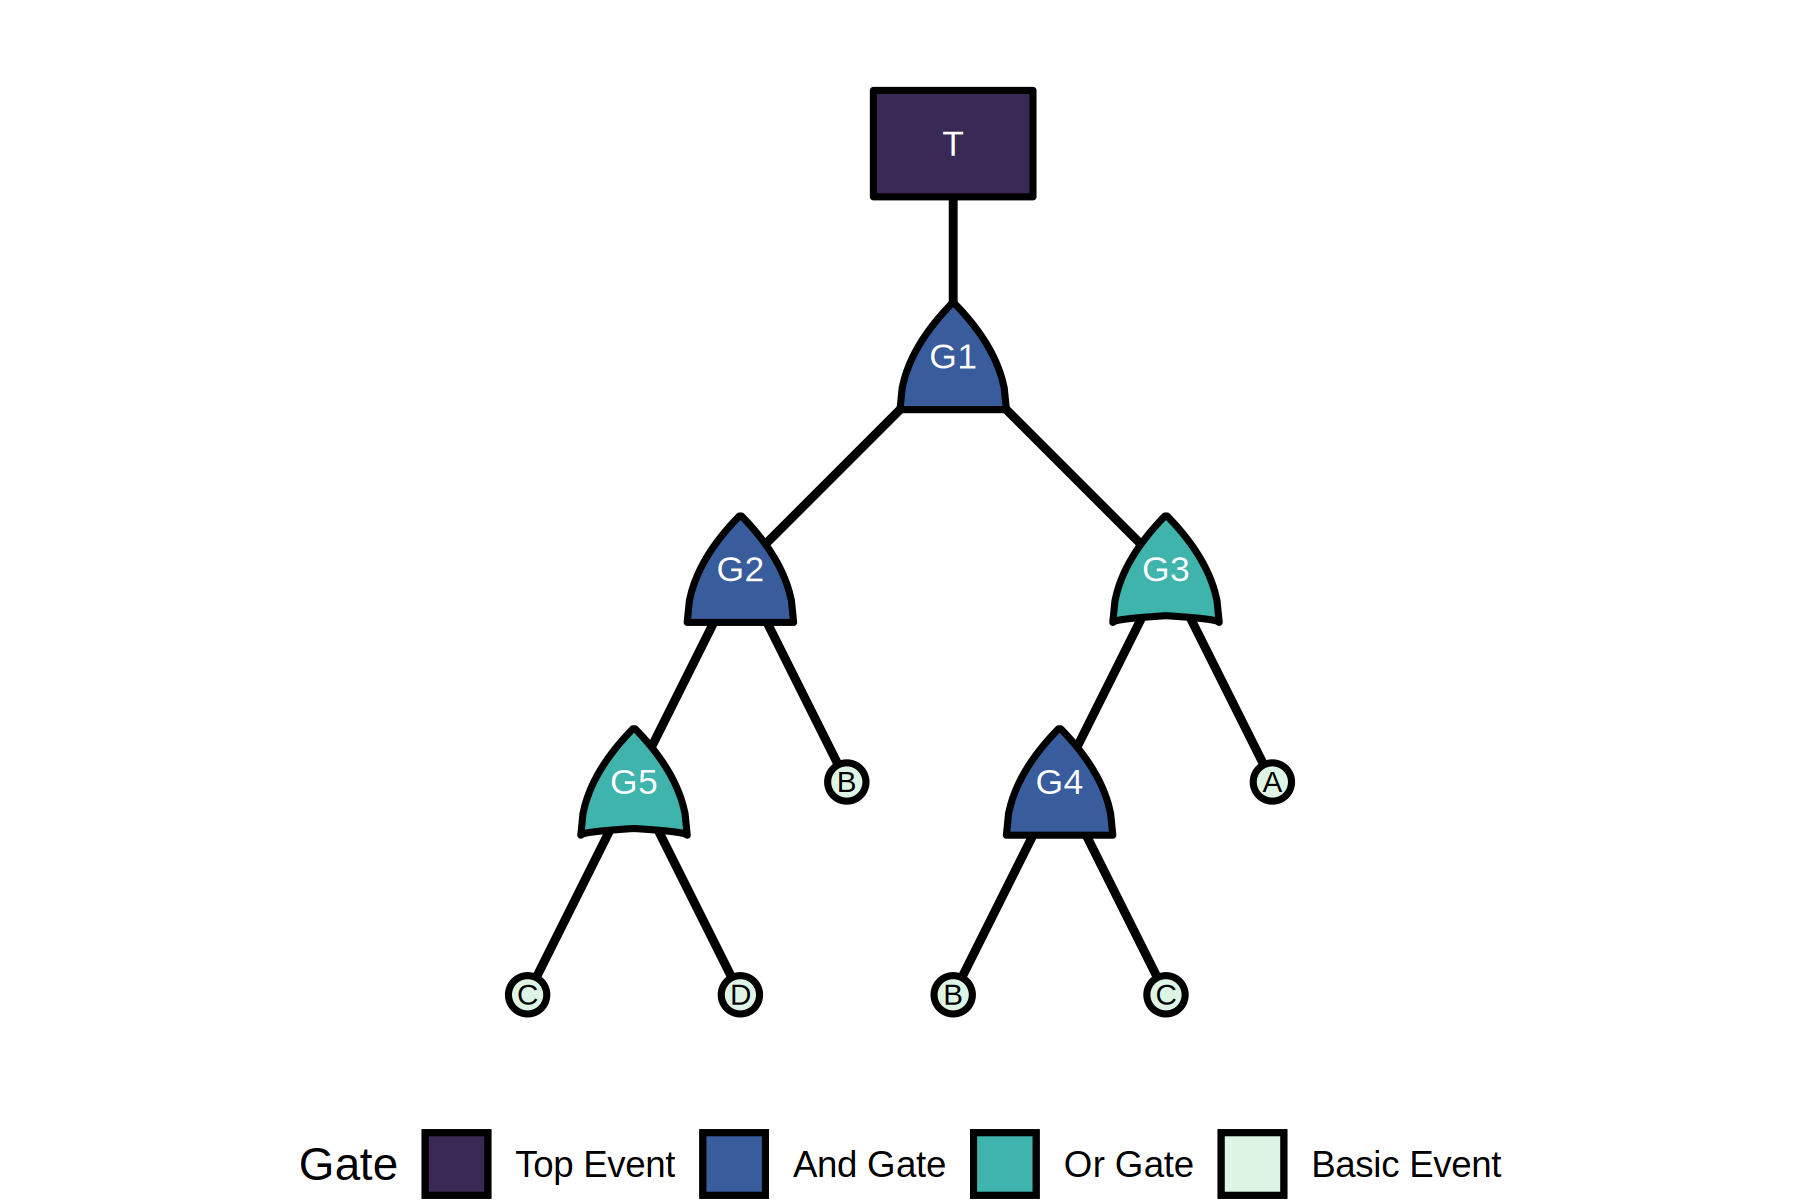
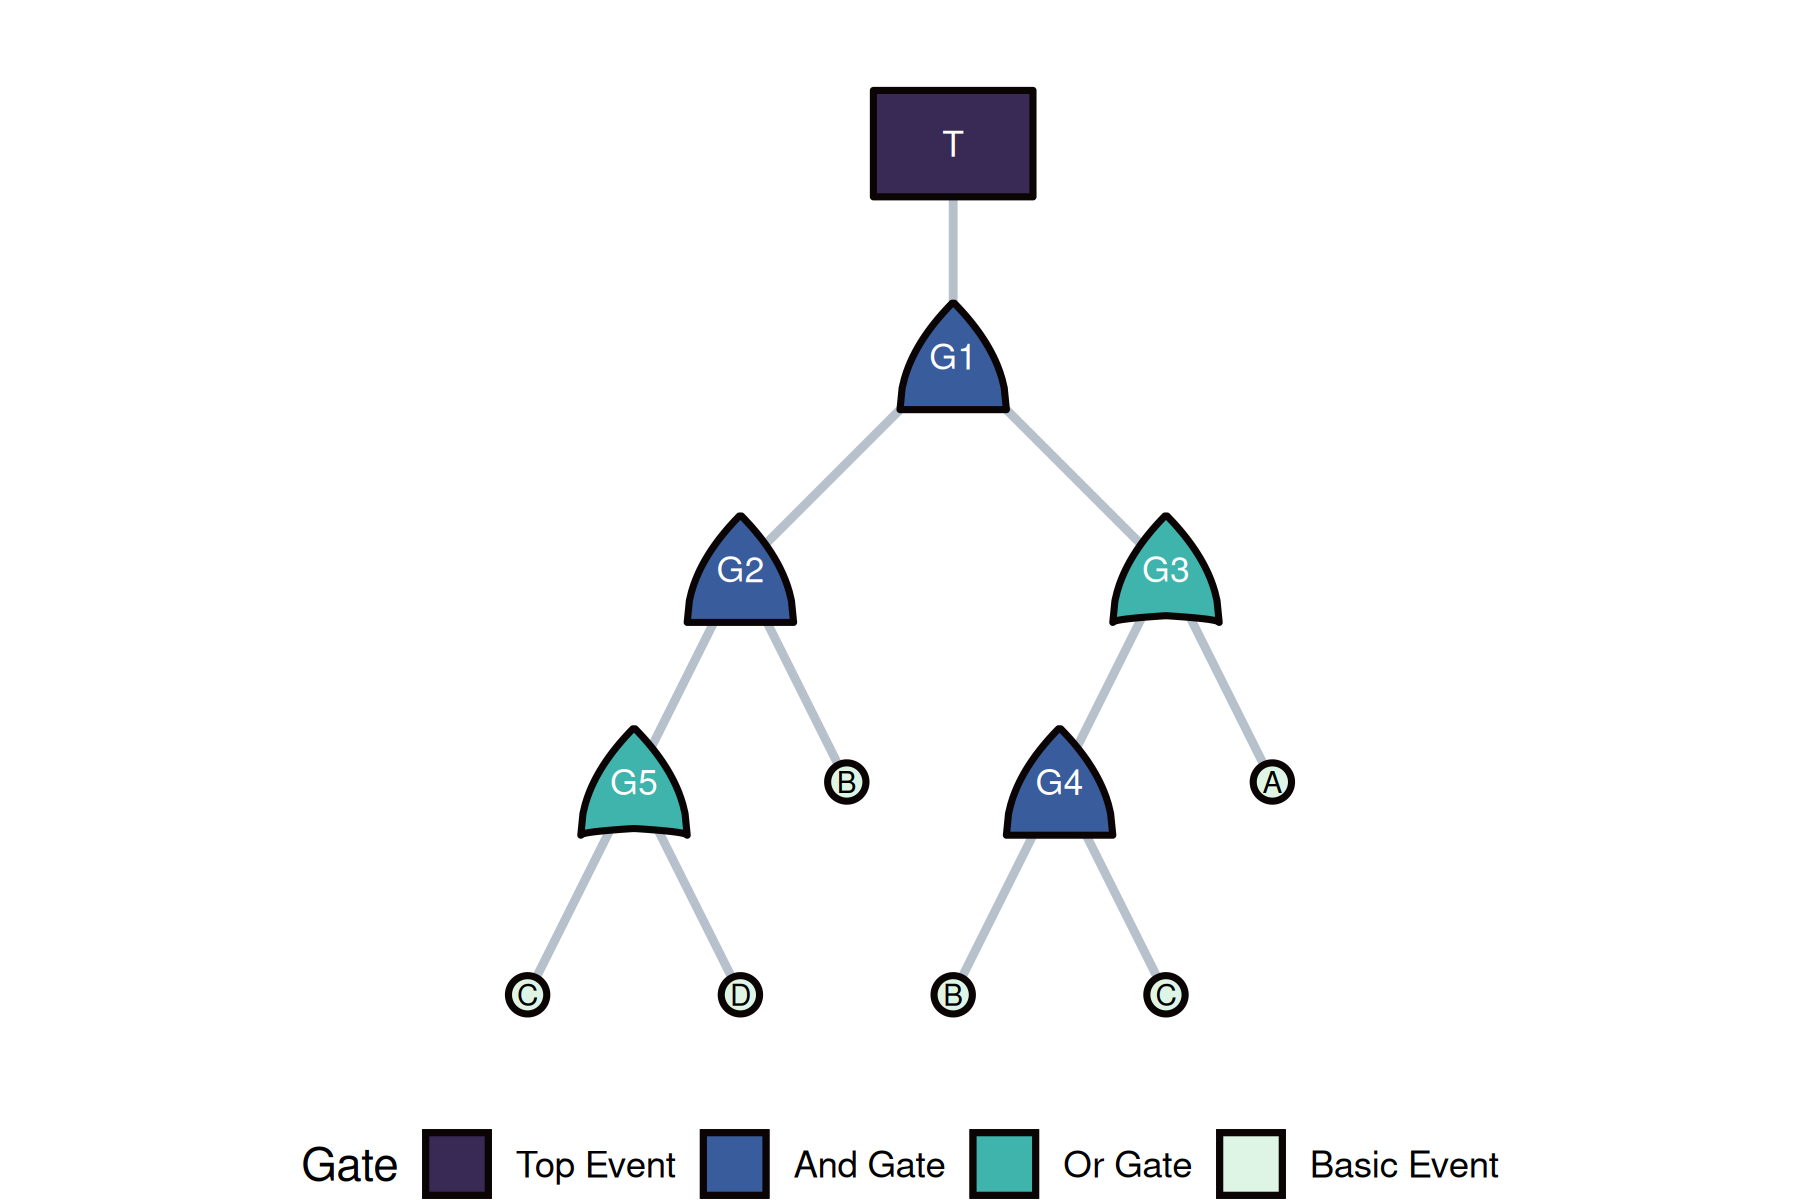
CRAN: README install block, absolute license link, contact; rebuild README.md
install.packages("tidyfault") first (for when CRAN accepts), the GitHub install
as the development version; the license line links the full GitHub URL of
LICENSE.md instead of a relative path CRAN would flag; heading and contact
follow the new DESCRIPTION. README.md re-rendered with devtools::build_readme()
(figure still 1800x1200 at 300 dpi).

Claude-Session: https://claude.ai/code/session_01KkEdaJxX8cBcVka7bRJua2

diff --git a/README.md b/README.md
@@ -11,7 +11,7 @@
 
 <img src="man/figures/logo.png" align="right" width="120" style="float: right; margin-left: 1rem;" alt="tidyfault logo" />
 
-## R Package for tidy *Fault Tree Analysis* (FTA)!
+## Tidy *Fault Tree Analysis* (FTA) for R
 
 **`tidyfault`** uses `tidyverse`, `tidygraph`, and related tools to
 visualize fault trees, identify minimal cutsets, and evaluate failure
@@ -64,18 +64,21 @@ License](https://unsplash.com/license).
 
 ## Installation
 
-```r
-# R
+``` r
+# R, from CRAN (once accepted)
+install.packages("tidyfault")
+
+# R, development version from GitHub
 remotes::install_github("timothyfraser/tidyfault")
 ```
 
-```sh
+``` sh
 # Python
 pip install "git+https://github.com/timothyfraser/tidyfault#subdirectory=python"
 ```
 
-On Linux, `igraph` (used through `tidygraph` and `ggraph`) needs the GLPK
-library: `sudo apt-get install libglpk40` on Ubuntu or Debian.
+On Linux, `igraph` (used through `tidygraph` and `ggraph`) needs the
+GLPK library: `sudo apt-get install libglpk40` on Ubuntu or Debian.
 
 ## Basic Usage
 
@@ -111,7 +114,7 @@ First, we…
 ``` r
 mygates = curate(nodes = fakenodes, edges = fakeedges)
 mygates
-#> # A tibble: 6 × 6
+#> # A tibble: 6 x 6
 #>   gate  type  class     n set           items    
 #>   <chr> <fct> <fct> <int> <chr>         <list>   
 #> 1 T     top   top       1 " (G1) "      <chr [1]>
@@ -137,7 +140,7 @@ myfunction = myequation %>% formulate()
 myfunction
 #> function (A, B, C, D) 
 #> (((B * (C + D)) * (A + (B * C))))
-#> <environment: 0x558fc1cd8538>
+#> <environment: 0x560048da9200>
 ```
 
 4.  `calculate()` the full truth table of all possible combinations of
@@ -146,7 +149,7 @@ myfunction
 ``` r
 mycombos = myfunction %>% calculate()
 head(mycombos)
-#> # A tibble: 6 × 5
+#> # A tibble: 6 x 5
 #>       A     B     C     D outcome
 #>   <dbl> <dbl> <dbl> <dbl>   <dbl>
 #> 1     0     1     1     0       1
@@ -175,7 +178,7 @@ mymin
 ``` r
 mytable = tabulate(mymin, formula = myfunction)
 mytable
-#> # A tibble: 2 × 4
+#> # A tibble: 2 x 4
 #>   mincut cutsets failures coverage
 #>   <chr>    <int>    <int>    <dbl>
 #> 1 A*B*D        2        5      0.4
@@ -231,9 +234,11 @@ mytable = mygates %>%
 
 ## Credits and license
 
-- **Software:** [GPL-3](https://www.gnu.org/licenses/gpl-3.0.html) (see
-  the `LICENSE` file in the repository). The documentation site is built
-  with [pkgdown](https://pkgdown.r-lib.org/).
+- **Software:** [GPL-3](https://www.gnu.org/licenses/gpl-3.0.html) (full
+  text in
+  [LICENSE.md](https://github.com/timothyfraser/tidyfault/blob/main/LICENSE.md)).
+  The documentation site is built with
+  [pkgdown](https://pkgdown.r-lib.org/).
 - **Images above:** Unsplash-hosted stock photos; see the [Unsplash
   License](https://unsplash.com/license). When redistributing or
   cropping, follow Unsplash attribution guidance.
@@ -245,4 +250,4 @@ mytable = mygates %>%
 
 ## Questions?
 
-Contact: Timothy Fraser, PhD (<timothy.fraser.1@gmail.com>)
+Contact: Timothy Fraser, PhD (<tmf77@cornell.edu>)
